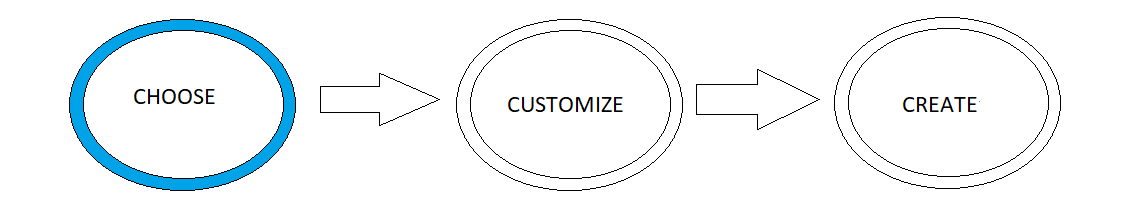
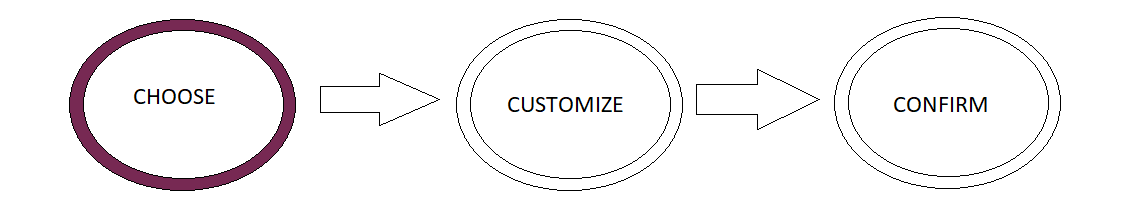
Cleaned up the door page to work on mobile

Changed region(s): [[0.0612, 0.0878, 0.2753, 0.9366], [0.7649, 0.4683, 0.8872, 0.5561]]

diff --git a/WebApplication1/Controllers/HomeController.cs b/WebApplication1/Controllers/HomeController.cs
@@ -41,7 +41,7 @@ namespace WebApplication1.Controllers
             return View();
         }
 
-        public ActionResult Create()
+        public ActionResult Confirm()
         {
             ViewBag.Message = "Your test choose page.";
 
